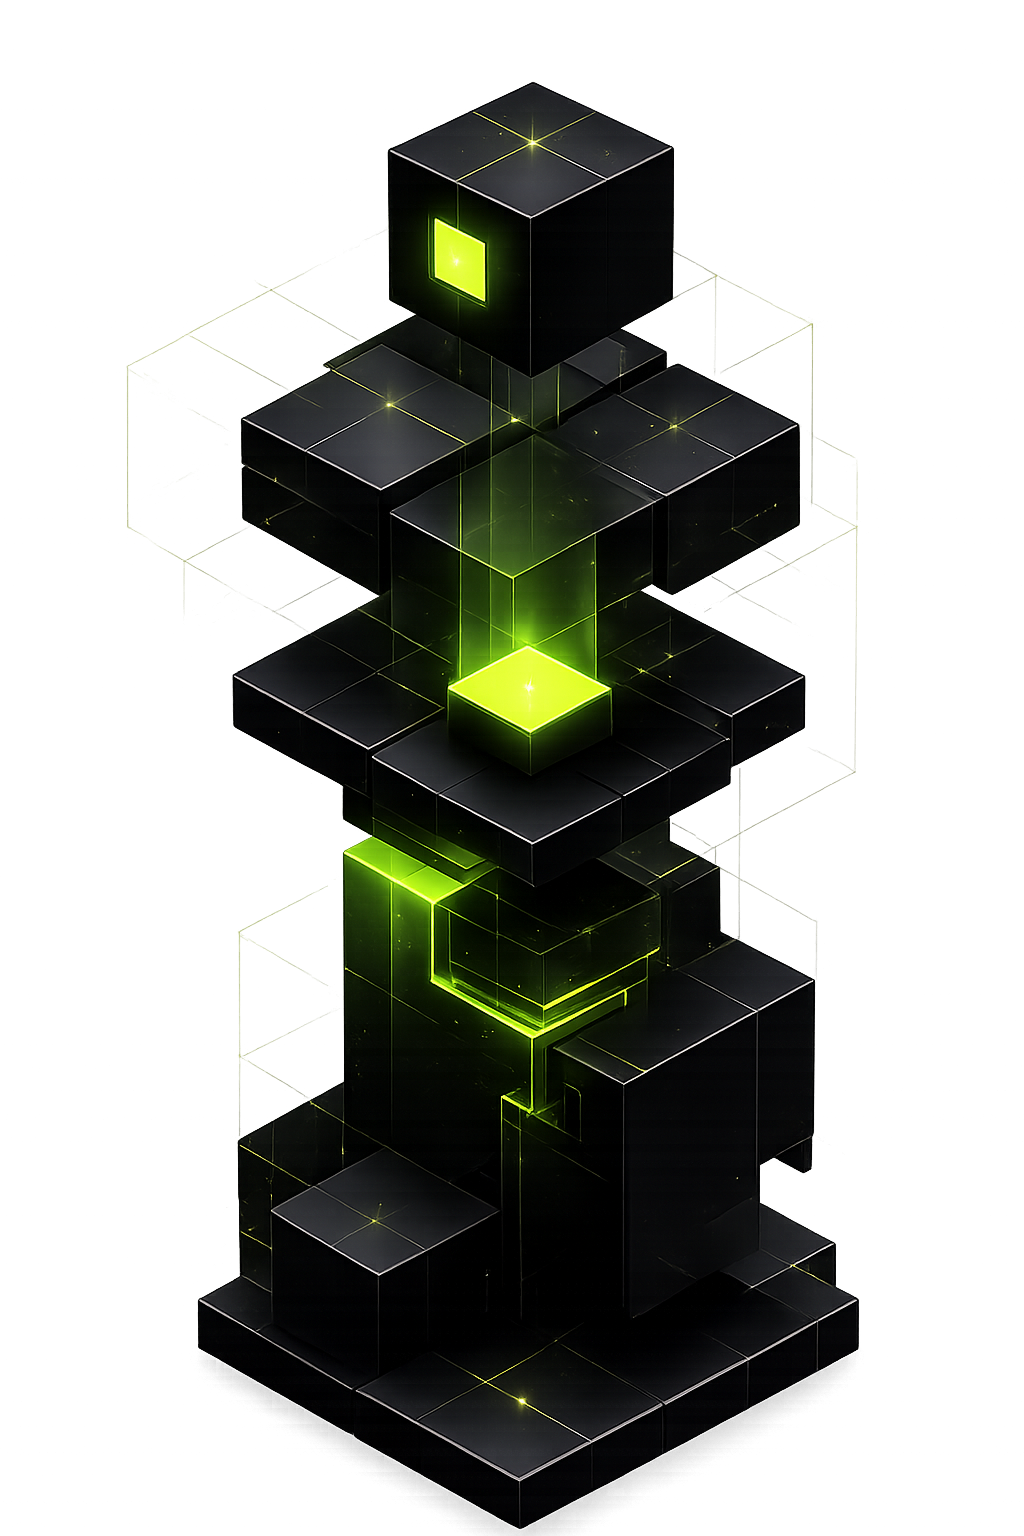
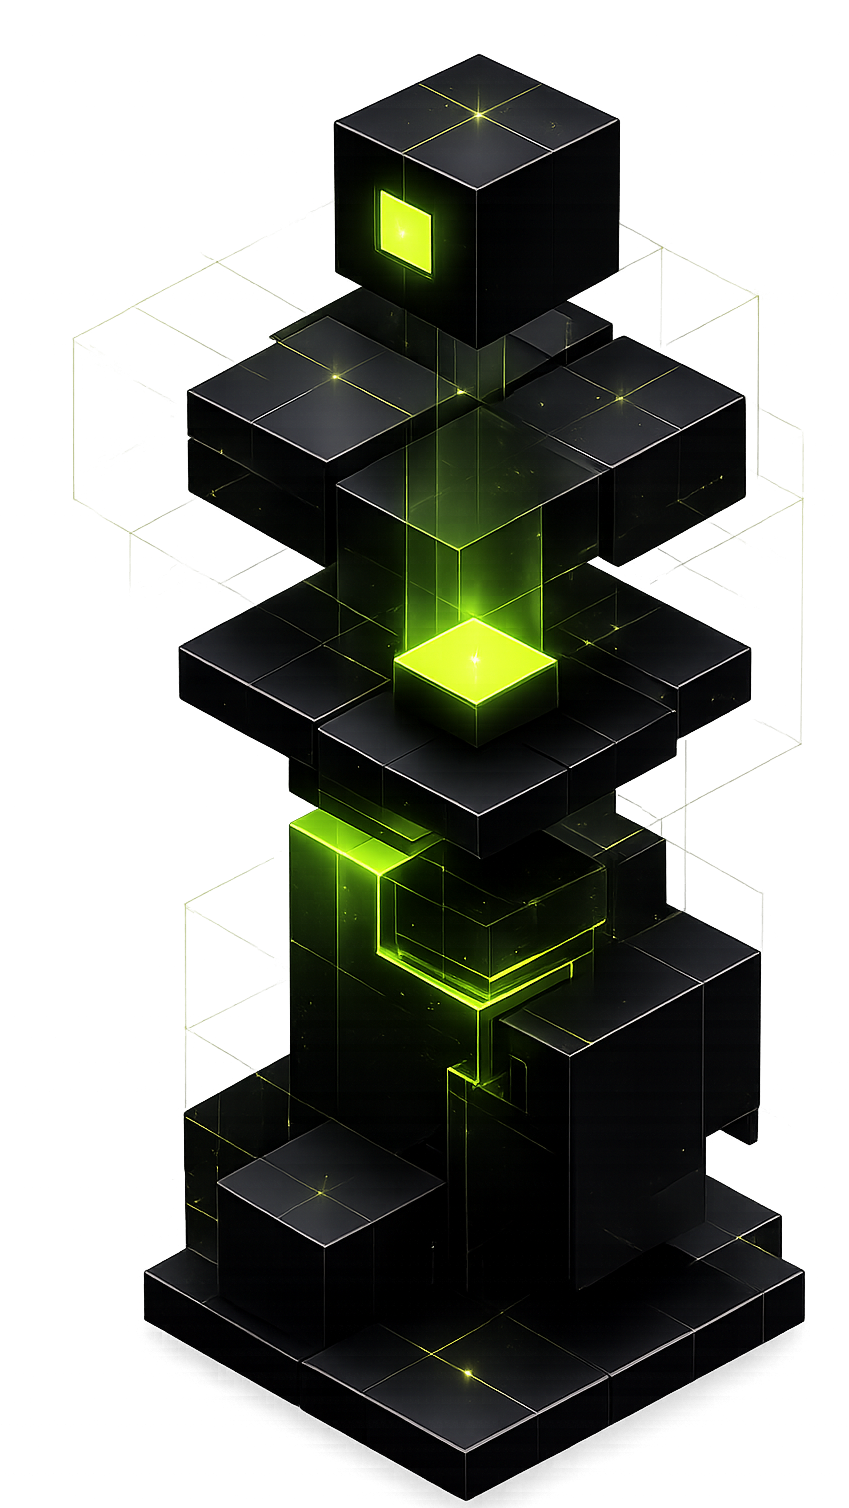
hero section complete

diff --git a/src/components/sections/hero/HeroVisual.tsx b/src/components/sections/hero/HeroVisual.tsx
@@ -1,48 +1,36 @@
-import HeroPanel from "./HeroPanel";
-import ArchitectureVisual from "./ArchitectureVisual"; 
+import HeroPanel from "./HeroPanel"; 
 export default function HeroVisual() {
   return (
-    <div className="relative mx-auto w-full max-w-[640px]">
+    <div className="relative  w-full      ">
        
       <div
-        className="
-          relative
+        className=" 
           overflow-hidden
-          rounded-[32px]
-          border
-          border-white/10
-          bg-white/[0.03]
-          backdrop-blur-2xl
+          rounded-xl 
+          bg-[url('/images/hero-bg.png')] bg-no-repeat bg-right-bottom bg-[length:18rem]
         "
       >
-        <div
-          className="
-            absolute
-            inset-0
-            bg-gradient-to-br
-            from-white/[0.04]
-            via-transparent
-            to-lime-400/[0.03]
-          "
-        />
+         
 
-        <div
-          className="
-            relative
-            z-10
-            grid
-            min-h-[540px]
-            grid-cols-1
-
-            lg:min-h-[640px]
-            lg:grid-cols-[1fr_280px]
-          "
-        >
+        <div  className="  bg-white/[0.05]  "      >
           <HeroPanel />
-
-          <ArchitectureVisual />
+ 
         </div>
       </div>
+      <div className="mt-auto p-5">
+        <div className="flex flex-wrap items-center gap-2 text-xs text-zinc-500">
+          <span>// building</span>
+          <div className="h-1 w-1 rounded-full bg-zinc-500" />
+          <span>learning</span>
+          <div className="h-1 w-1 rounded-full bg-zinc-500" />
+		<span>improving</span>
+          <div className="h-1 w-1 rounded-full bg-lime-300/80" />
+          <span className="text-lime-300/80">
+            shipping
+          </span>
+        </div>
+      </div>
+      
     </div>
   );
 }

diff --git a/src/components/sections/hero/TechStackCard.tsx b/src/components/sections/hero/TechStackCard.tsx
@@ -4,38 +4,29 @@ export default function TechStackCard() {
   return (
     <div
       className="
-        rounded-3xl
+        rounded-lg
         border
         border-white/10
-        bg-black/20
-        p-5
-        backdrop-blur-xl
+        bg-white/[0.06]
+        p-3
+        backdrop-blur-md
+        w-full
+        max-w-xs
       "
     >
-      <div className="space-y-5">
+      <div className="space-y-3">
         {techStacks.map((item) => {
           const Icon = item.icon;
 
           return (
             <div
               key={item.title}
-              className="flex items-start gap-4"
+              className="flex items-center gap-4  "
             >
               <div
-                className="
-                  flex
-                  h-10
-                  w-10
-                  items-center
-                  justify-center
-                  rounded-xl
-                  border
-                  border-white/10
-                  bg-white/[0.03]
-                  text-lime-400
-                "
+                className="text-white  "
               >
-                <Icon className="h-5 w-5" />
+                <Icon className="h-6 w-6" />
               </div>
 
               <div>
@@ -43,7 +34,7 @@ export default function TechStackCard() {
                   {item.title}
                 </h4>
 
-                <p className="mt-1 text-xs leading-relaxed text-zinc-500">
+                <p className="mt-1 text-xs leading-relaxed text-zinc-400">
                   {item.tech}
                 </p>
               </div>

diff --git a/src/components/sections/hero/TerminalLogs.tsx b/src/components/sections/hero/TerminalLogs.tsx
@@ -2,27 +2,30 @@ import { terminalLogs } from "@/data/terminalLogs";
 
 export default function TerminalLogs() {
   return (
-    <div className="mt-8 space-y-4 font-mono text-sm">
+    <div className="mt-8 space-y-4 font-mono text-xs ">
       <div className="text-zinc-300">
-        <span className="text-lime-400">
+        <span className="text-lime-300/80">
           {">"}
         </span>{" "}
         boot: initializing developer profile...
       </div>
 
-      <div className="space-y-3 pt-4">
+      <div className="space-y-3 pt-4 max-w-[200px]  ">
         {terminalLogs.map((item) => (
           <div
             key={item.label}
-            className="flex items-center justify-between"
+            className="grid grid-cols-2 gap-2"
           >
-            <span className="text-zinc-400">
-              {item.label}
-            </span>
+            <div className="text-zinc-400">
+              <span className="text-lime-300/80">
+          		{">"}
+		  </span>{" "} 
+		  {item.label}
+		</div>
 
-            <span className="text-lime-400">
+            <div className="text-lime-300/80">
               {item.status}
-            </span>
+            </div>
           </div>
         ))}
       </div>

diff --git a/src/components/sections/hero/HeroPanel.tsx b/src/components/sections/hero/HeroPanel.tsx
@@ -5,7 +5,7 @@ import TechStackCard from "./TechStackCard";
 
 export default function HeroPanel() {
   return (
-    <div className="flex flex-col p-5 sm:p-7">
+    <div className="flex flex-col p-5     ">
       <TerminalHeader />
 
       <TerminalLogs />
@@ -16,18 +16,7 @@ export default function HeroPanel() {
         <TechStackCard />
       </div>
 
-      <div className="mt-auto pt-6">
-        <div className="flex flex-wrap items-center gap-2 text-xs text-zinc-500">
-          <span>// building</span>
-          <span>•</span>
-          <span>learning</span>
-          <span>•</span>
-
-          <span className="text-lime-400">
-            shipping
-          </span>
-        </div>
-      </div>
+      
     </div>
   );
 }

diff --git a/src/components/sections/hero/Hero.tsx b/src/components/sections/hero/Hero.tsx
@@ -1,17 +1,19 @@
+'use client'
+
 import Container from "@/components/layout/Container";
 import BackgroundGlow from "./BackgroundGlow";
 import HeroContent from "./HeroContent";
 import HeroVisual from "./HeroVisual";
-
+import { motion } from "framer-motion";
 export default function Hero() {
   return (
     <section
-      className="relative overflow-hidden   bg-black py-24 lg:py-32"
+      className="relative overflow-hidden   py-24 lg:py-32"
       aria-label="Hero Section"
     >
-        
+       
       <Container>
-        <div className="grid items-center gap-20 lg:grid-cols-[1.1fr_0.9fr]">
+        <div className="grid items-start  gap-10 lg:grid-cols-[1.1fr_0.9fr] ">
           <HeroContent />
 
           <HeroVisual />

diff --git a/src/data/techStacks.ts b/src/data/techStacks.ts
@@ -1,7 +1,7 @@
 import {
   Atom,
   Database,
-  Globe,
+  Zap,
   Layers3,
 } from "lucide-react";
 
@@ -16,16 +16,16 @@ export const techStacks: TechStackItem[] = [
   {
     icon: Layers3,
     title: "Backend",
-    tech: "Node.js, Laravel, REST APIs",
+    tech: "Laravel, REST APIs",
   },
   {
-    icon: Globe,
+    icon: Zap,
     title: "Realtime",
     tech: "WebSocket, WebRTC",
   },
   {
     icon: Database,
     title: "Database",
-    tech: "MySQL, PostgreSQL, Redis",
+    tech: "MySQL, PostgreSQL",
   },
 ];

diff --git a/src/components/sections/hero/StatusRow.tsx b/src/components/sections/hero/StatusRow.tsx
@@ -1,8 +1,8 @@
 export default function StatusRow() {
   return (
-    <div className="mt-8 border-t border-white/10 pt-6">
-      <div className="flex items-center gap-3 text-sm">
-        <span className="text-lime-400">
+    <div className="    pt-8">
+      <div className="  text-xs">
+        <span className="text-lime-300 pr-3">
           status:
         </span>
 

diff --git a/src/components/sections/hero/TerminalHeader.tsx b/src/components/sections/hero/TerminalHeader.tsx
@@ -1,6 +1,6 @@
 export default function TerminalHeader() {
   return (
-    <div className="flex items-center gap-3">
+    <div className="flex items-center gap-5">
       <div className="flex items-center gap-2">
         <div className="h-3 w-3 rounded-full bg-red-400" />
 
@@ -8,8 +8,8 @@ export default function TerminalHeader() {
 
         <div className="h-3 w-3 rounded-full bg-green-400" />
       </div>
-
-      <div className="ml-4 text-xs text-zinc-400">
+	<div className="h-3 w-[1px] bg-white/50" />
+      <div className="  text-xs text-zinc-400">
         system@portfolio
       </div>
     </div>

diff --git a/src/components/sections/hero/HeroButtons.tsx b/src/components/sections/hero/HeroButtons.tsx
@@ -7,7 +7,7 @@ export default function HeroButtons() {
        
 	<Link
 	href="#work"
-	className="w-fit  inline-flex items-center gap-3 rounded-md border px-8 py-4 text-sm font-medium transition-all duration-300 border-lime-300/30 bg-lime-300 text-black hover:bg-lime-400"
+	className="group w-fit  inline-flex items-center gap-3 rounded-md border px-8 py-4 text-sm font-medium transition-all duration-300 border-lime-300/30 bg-lime-300 text-black hover:bg-lime-400"
 	   
 	>
 		Explore My Work
@@ -16,7 +16,7 @@ export default function HeroButtons() {
     
 	<Link
 	href="#contact"
-	className= " w-fit  inline-flex items-center gap-3 rounded-md border px-8 py-4  text-sm font-medium transition-all duration-300 border-white/10 bg-white/[0.03] text-white hover:border-lime-400/30 hover:bg-white/[0.05]"
+	className= "group w-fit  inline-flex items-center gap-3 rounded-md border px-8 py-4  text-sm font-medium transition-all duration-300 border-white/10 bg-white/[0.03] text-white hover:border-lime-400/30 hover:bg-white/[0.05]"
 	
 	>
 		Let&apos;s Connect 

diff --git a/src/app/page.tsx b/src/app/page.tsx
@@ -6,6 +6,8 @@ export default function Home() {
     <main className="h-[2000px]">
       <Header /> 
       <Hero />
+      
     </main>
+    
   );
 }

diff --git a/src/components/layout/header/MobileNav.tsx b/src/components/layout/header/MobileNav.tsx
@@ -63,7 +63,7 @@ export default function MobileNav({
             : "translate-x-full"
         )}
       >
-      <div className="w-full h-full bg-lime-900/10  py-3  flex flex-col">
+      <div className="w-full h-full bg-zinc-900  py-3  flex flex-col">
 	  {/* Top */}
 	  <div className="mb-10 px-6 flex items-center justify-between">
 	    <div>

diff --git a/src/components/sections/hero/HeroStats.tsx b/src/components/sections/hero/HeroStats.tsx
@@ -20,7 +20,7 @@ export default function HeroStats() {
                   gap-2
                 "
               >
-                <Icon className="h-7 w-7" />
+                <Icon className="h-5 w-5" />
                 <h4 className="text-2xl font-semibold text-white">
                   {item.value}
                 </h4>